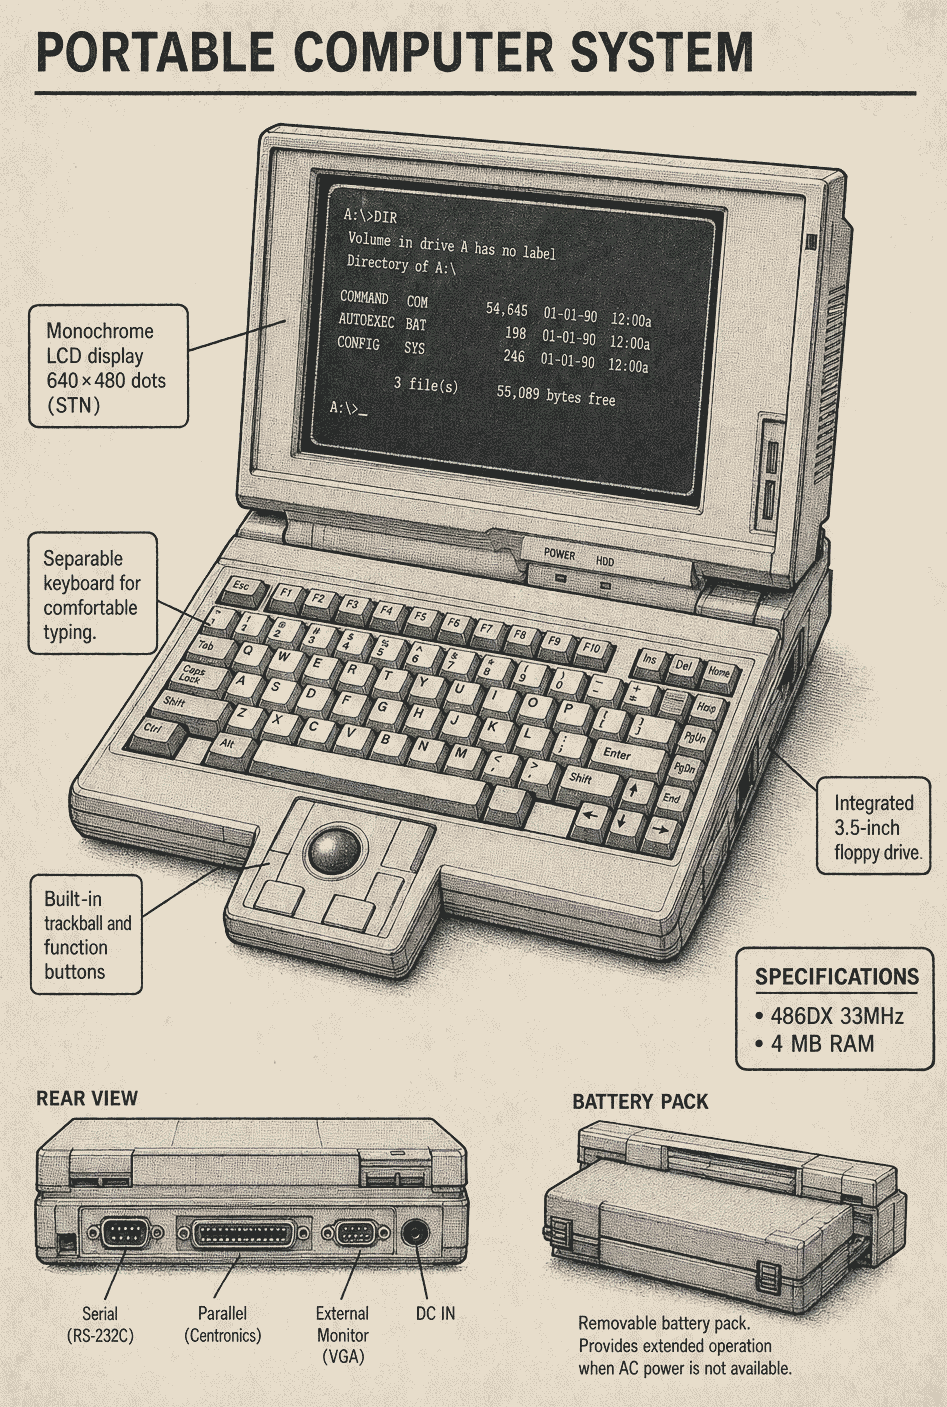
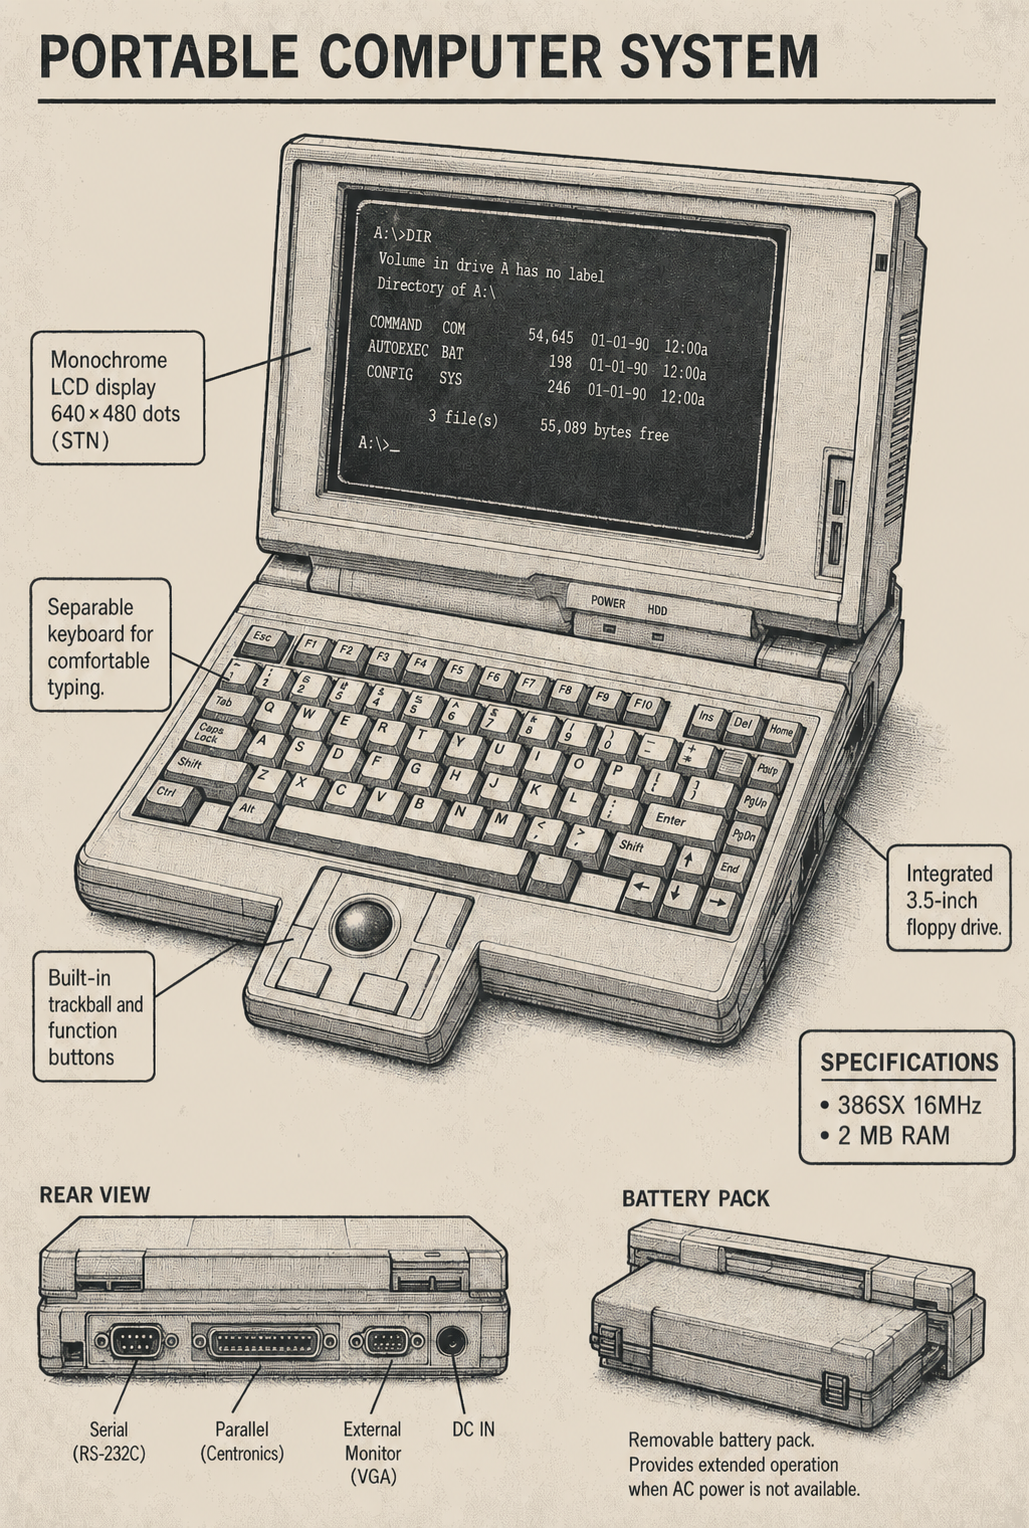
Update portable concept to 386SX DOS (#12)
Replace the portable illustration with the DOS-oriented 386SX 16 MHz and 2 MB RAM concept. Align the README and Web Terminal manual copy while keeping the current shared execution-core boundary explicit, and extend manual coverage for the advertised hardware profile.

diff --git a/web/manual.js b/web/manual.js
@@ -235,10 +235,10 @@ while True:
     id: "dos-profile",
     number: "14",
     title: "DOS profile",
-    summary: "Alternate command and path conventions",
+    summary: "386SX portable command and path conventions",
     html: `
-      <header class="manual-page-header"><p class="manual-kicker">Chapter 14 · Compatibility profile</p><h2>Operating in the DOS environment</h2><p class="manual-lead">The DOS profile changes presentation, command names, separators, and startup conventions without duplicating the machine core. Filesystem, CPU, RAM, quota, and sandbox rules remain authoritative.</p></header>
-      <figure class="manual-figure manual-figure--portable"><img src="/assets/manual/portable-computer-system.png" alt="Portable Computer System showing a DOS prompt, monochrome LCD, keyboard, trackball, floppy drive, rear ports, and battery pack" loading="lazy" decoding="async"><figcaption><b>Portable Computer System.</b> The DOS-facing concept uses the same nominal 486DX 33 MHz and 4 MB RAM model as the desktop profile; only the operator conventions change.</figcaption></figure>
+      <header class="manual-page-header"><p class="manual-kicker">Chapter 14 · Compatibility profile</p><h2>Operating in the DOS environment</h2><p class="manual-lead">The portable profile presents a 386SX 16 MHz machine with 2 MB RAM and a DOS command environment. The current sandbox keeps execution, storage, identity, and security policy on the shared verified core while adapting the operator-facing machine profile.</p></header>
+      <figure class="manual-figure manual-figure--portable"><img src="/assets/manual/portable-computer-system.png" alt="Portable 386SX 16 MHz Computer System with 2 MB RAM showing a DOS prompt, monochrome LCD, keyboard, trackball, floppy drive, rear ports, and battery pack" loading="lazy" decoding="async"><figcaption><b>Portable Computer System.</b> A DOS laptop concept built around a 386SX at 16 MHz with 2 MB RAM. Its tighter clock and memory targets distinguish it from the desktop workstation; a CPU-specific instruction timing table remains separate from the current shared execution core.</figcaption></figure>
       <section class="manual-section"><h3>14.1 Correspondence table</h3><table><thead><tr><th>Task</th><th>Linux profile</th><th>DOS profile</th></tr></thead><tbody><tr><td>List</td><td>ls</td><td>DIR</td></tr><tr><td>Read</td><td>cat FILE</td><td>TYPE FILE</td></tr><tr><td>Change directory</td><td>cd /tmp</td><td>CD C:\\TMP</td></tr><tr><td>Copy / move</td><td>cp / mv</td><td>COPY / MOVE</td></tr><tr><td>Remove</td><td>rm</td><td>DEL</td></tr><tr><td>Machine info</td><td>cpuinfo / free</td><td>CPU / MEM</td></tr><tr><td>Version</td><td>uname</td><td>VER</td></tr></tbody></table></section>
       <section class="manual-section manual-grid-2"><div><h3>14.2 Layout</h3><pre><code>C:\\
 ├─ DOS

diff --git a/README.md b/README.md
@@ -12,11 +12,11 @@ pocket computers, and turtles follow ComputerCraft-style behavior.
 <table>
   <tr>
     <td align="center"><img src="web/assets/manual/desktop-computer-system.png" alt="Desktop Computer System concept sheet showing a 486DX 33 MHz system unit, CRT, keyboard, mouse, and floppy drives" height="400"></td>
-    <td align="center"><img src="web/assets/manual/portable-computer-system.png" alt="Portable Computer System concept sheet showing its DOS terminal, keyboard, trackball, ports, battery, and 486DX 33 MHz specification" height="400"></td>
+    <td align="center"><img src="web/assets/manual/portable-computer-system.png" alt="Portable Computer System concept sheet showing its DOS terminal, keyboard, trackball, ports, battery, and 386SX 16 MHz with 2 MB RAM specification" height="400"></td>
   </tr>
   <tr>
     <td align="center"><b>Desktop Computer System</b><br>Linux-style workstation concept</td>
-    <td align="center"><b>Portable Computer System</b><br>DOS-style mobile concept</td>
+    <td align="center"><b>Portable Computer System</b><br>386SX 16 MHz / 2 MB DOS mobile concept</td>
   </tr>
 </table>
 
